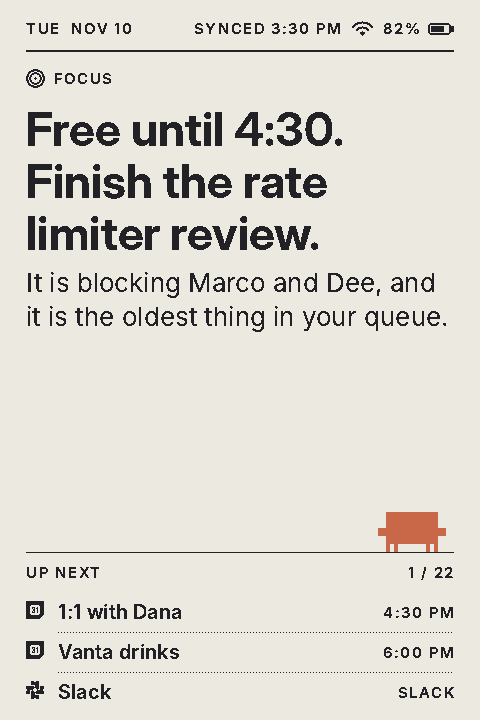
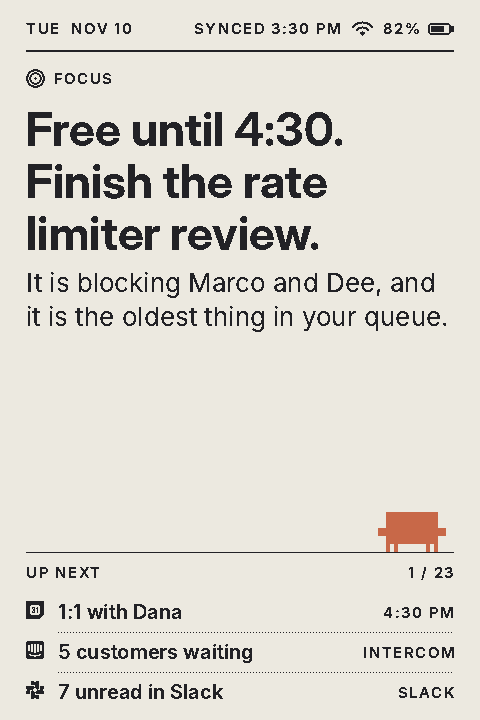
Commute shows the trip in big minutes with the mode beside it; Up next varies across screenshots

diff --git a/firmware/components/cink_core/src/ui.cpp b/firmware/components/cink_core/src/ui.cpp
@@ -153,10 +153,8 @@ void hero_countdown(Canvas& cv, const Card& c, const Status& st, Box b) {
   int64_t dt = c.at - st.now;
   int mins = (int)((dt + 59) / 60);
   char clock[16], ctx[40];
-  const bool commute = c.kind == Kind::Commute;
-  // A commute card's "at" is the leave-by time and its "end" the meeting start.
-  fmt_clock(commute && c.end ? c.end : c.at, clock, sizeof clock);
-  snprintf(ctx, sizeof ctx, commute ? "ARRIVE %s" : "AT %s", clock);
+  fmt_clock(c.at, clock, sizeof clock);
+  snprintf(ctx, sizeof ctx, "AT %s", clock);
   int y = b.y + 22;
   card_eyebrow(cv, c, st, b.x, y, b.w, ctx);
 
@@ -165,14 +163,14 @@ void hero_countdown(Canvas& cv, const Card& c, const Status& st, Box b) {
   int base = y + 140;
   int nw;
   if (mins <= 1) {
-    nw = cv.text(font_big, b.x - 2, base - 20, commute ? "Go" : "Now", num_ink);
+    nw = cv.text(font_big, b.x - 2, base - 20, "Now", num_ink);
   } else {
     char num[12];
     snprintf(num, sizeof num, "%d", mins);
     nw = cv.text(font_huge, b.x - 4, base, num, num_ink);
     const char* unit = mins == 1 ? "MINUTE" : "MINUTES";
     eyebrow(cv, b.x + nw + 14, base, unit, Ink::Black);
-    eyebrow(cv, b.x + nw + 14, base - 26, commute ? "LEAVE IN" : "STARTS IN", Ink::Black);
+    eyebrow(cv, b.x + nw + 14, base - 26, "STARTS IN", Ink::Black);
   }
   y = base + 22;
   cv.hline(b.x, y, b.w, Ink::Black, 2);
@@ -186,6 +184,84 @@ void hero_countdown(Canvas& cv, const Card& c, const Status& st, Box b) {
   }
   if (c.body[0] && y + 32 <= bottom) {
     y += 32;
+    cv.wrap(font_body, b.x, y, b.w, 29, (bottom - y) / 29 + 1, c.body, Ink::Black);
+  }
+  if (c.meta[0]) {
+    cv.dots(b.x, b.y + b.h - 30, b.w, 3, Ink::Black);
+    cv.text(font_small, b.x, b.y + b.h - 6, c.meta, Ink::Black, 0, b.w);
+  }
+}
+
+// How the owner is getting there, for the line beside the minutes the card's
+// (eyebrow capitals): the card's delta ("by car"), else guessed from the title's verb ("Drive to ...").
+void travel_mode(const Card& c, char* out, size_t n) {
+  if (c.delta[0]) {
+    snprintf(out, n, "%s", c.delta);
+  } else {
+    struct { const char* verb; const char* mode; } verbs[] = {
+      {"Drive", "by car"}, {"Walk", "on foot"}, {"Bike", "by bike"}, {"Ride", "by bike"},
+      {"Take", "by transit"}, {"Train", "by train"}, {"Bus", "by bus"}, {"Head", "door to door"},
+    };
+    snprintf(out, n, "door to door");
+    for (auto& v : verbs)
+      if (!strncmp(c.title, v.verb, strlen(v.verb))) { snprintf(out, n, "%s", v.mode); break; }
+  }
+}
+
+// Commute: the trip's length is the number ("25 MINUTES BY CAR"), the place
+// goes under it, and the eyebrow counts down to leaving.
+void hero_commute(Canvas& cv, const Card& c, const Status& st, Box b) {
+  int64_t dt = c.at ? c.at - st.now : 0;
+  int leave_in = (int)((dt + 59) / 60);
+  char leave[16], arrive[16], ctx[40];
+  fmt_clock(c.at, leave, sizeof leave);
+  fmt_clock(c.end, arrive, sizeof arrive);
+  if (!c.at) ctx[0] = 0;
+  else if (dt <= 60 && dt > -15 * 60) snprintf(ctx, sizeof ctx, "GO NOW");
+  else if (dt > 0 && leave_in <= 90) snprintf(ctx, sizeof ctx, "LEAVE IN %d MIN", leave_in);
+  else snprintf(ctx, sizeof ctx, "LEAVE BY %s", leave);
+  int y = b.y + 22;
+  card_eyebrow(cv, c, st, b.x, y, b.w, ctx);
+
+  // Trip length: the digits in "big", else arrival minus leave-by.
+  int trip = 0;
+  for (const char* p = c.big; *p; p++) {
+    if (*p >= '0' && *p <= '9') trip = trip * 10 + (*p - '0');
+    else if (trip) break;
+  }
+  if (!trip && c.at && c.end > c.at) trip = (int)((c.end - c.at + 59) / 60);
+  const bool soon = c.at && dt <= 5 * 60;
+  Ink num_ink = (c.urgent || soon) ? accent_ink(st) : Ink::Black;
+  int base = y + 140;
+  if (trip > 0 && trip < 1000) {
+    char num[8], mode[40];
+    snprintf(num, sizeof num, "%d", trip);
+    int nw = cv.text(font_huge, b.x - 4, base, num, num_ink);
+    travel_mode(c, mode, sizeof mode);
+    eyebrow(cv, b.x + nw + 14, base - 26, trip == 1 ? "MINUTE" : "MINUTES", Ink::Black);
+    eyebrow(cv, b.x + nw + 14, base, mode, Ink::Black, b.w - nw - 14);
+  } else {
+    base = y + 60;
+  }
+  y = base + 22;
+  cv.hline(b.x, y, b.w, Ink::Black, 2);
+  y += 42;
+  int used = cv.wrap(font_title_s, b.x, y, b.w, 42, 2, c.title, Ink::Black);
+  y += (used - 1) * 42;
+  int bottom = b.y + b.h - (c.meta[0] ? 44 : 4);
+  if (c.at && y + 36 <= bottom) {
+    char when[64];
+    if (c.end) snprintf(when, sizeof when, "Leave %s  \xC2\xB7  arrive %s", leave, arrive);
+    else snprintf(when, sizeof when, "Leave by %s", leave);
+    y += 36;
+    cv.text(font_body_b, b.x, y, when, soon ? accent_ink(st) : Ink::Black, 0, b.w);
+  }
+  if (c.subtitle[0] && y + 30 <= bottom) {
+    y += 30;
+    cv.text(font_body, b.x, y, c.subtitle, Ink::Black, 0, b.w);
+  }
+  if (c.body[0] && y + 36 <= bottom) {
+    y += 36;
     cv.wrap(font_body, b.x, y, b.w, 29, (bottom - y) / 29 + 1, c.body, Ink::Black);
   }
   if (c.meta[0]) {
@@ -341,7 +417,6 @@ void context_for(const Card& c, const Status& st, char* out, size_t n) {
 
 bool is_countdown(const Card& c, const Status& st) {
   int64_t dt = c.at ? c.at - st.now : -1;
-  if (c.kind == Kind::Commute) return c.at && dt > -10 * 60 && dt <= 99 * 60;  // "Go" once leave-by passes
   return c.at && dt > 0 && dt <= 99 * 60 && (c.kind == Kind::Event || c.kind == Kind::Quest);
 }
 
@@ -349,7 +424,8 @@ void hero(Canvas& cv, const Card& c, const Status& st, Box b) {
   if (c.urgent) cv.fill(0, b.y + 4, 8, 96, accent_ink(st));
   char ctx[48];
   context_for(c, st, ctx, sizeof ctx);
-  if (is_countdown(c, st)) hero_countdown(cv, c, st, b);
+  if (c.kind == Kind::Commute) hero_commute(cv, c, st, b);
+  else if (is_countdown(c, st)) hero_countdown(cv, c, st, b);
   else if (c.big[0]) hero_metric(cv, c, st, b, ctx);
   else if (c.nrows) {
     // Lists may run down beside Clawd's head: rows that low are narrowed instead.

diff --git a/desktop/bridge/src/prompt.rs b/desktop/bridge/src/prompt.rs
@@ -190,9 +190,9 @@ const GUIDE: &str = r#"How to build each screen:
 - brief: before 11 AM one morning brief card (start now, end 11 AM): the day in one line in title, body with the 2-3 things that matter. After 4 PM an evening wrap card (what got done, what tomorrow starts with).
 - doc: docs shared with the owner or with unresolved comments for them in the last 2 days, from every Google Drive account and SharePoint/OneDrive, plus the doc to read before the next meeting when there is one. src "gdrive" or "m365".
 - other: anything genuinely important that fits nowhere else.
-- traffic: one card from Vercel Web Analytics for the owner's main site: big = visitors today so far (e.g. "8,312"), delta against the same weekday's usual, spark = hourly visitors today, subtitle = top page and the biggest referrer. Only when it is unusual (well above or below normal) or the owner launched something; priority 20-45. C-Ink builds a separate Traffic card from Cloudflare itself (listed below when there is one); never make one for a Cloudflare site.
+- traffic: one card from Vercel Web Analytics for the owner's main site: big = visitors today so far (e.g. "8,312"), delta against the same weekday's usual, spark = hourly visitors today, subtitle = top page and the biggest referrer, short (e.g. "/blog/launch  ·  41% from Hacker News"). Only when it is unusual (well above or below normal) or the owner launched something; priority 20-45. C-Ink builds a separate Traffic card from Cloudflare itself (listed below when there is one); never make one for a Cloudflare site.
 - db: one card from Supabase advisors and logs: rows for security warnings (RLS off, exposed functions: tier 0, urgent if a table holding user data is public), performance warnings (tier 2), paused or unhealthy projects (tier 1). label = table or function, badge like "RLS" or "IDX". Nothing if clean.
-- commute: for each in-person meeting in the next 12 hours that has a physical location (an address or a named place in the location field or invite, not a video link or a room in the owner's own office), one card. Work out where the owner will be right before it: the location of their previous in-person meeting that day if there is one, otherwise their usual starting point given below. Skip it if both are the same building. Estimate door-to-door time for the owner's usual way of getting around from what you know about the two places and the time of day (rush hour, a bridge, parking), round up to 5 minutes and add the owner's buffer. "at" = leave-by time (meeting start minus that estimate), "start" = 45 minutes before leave-by, "end" = the meeting start. title = "<mode verb> to <place>", e.g. "Drive to Blue Bottle Hayes Valley" (max 40). subtitle like "About 25 min by car" (say "about": it is an estimate without live traffic). body = the meeting it is for and its start time, plus one practical note if there is a real one (parking, which entrance, the train line). meta = the destination's street address, shortened. Priority 45-70. Never route to or from anything covered by the privacy rule.
+- commute: for each in-person meeting in the next 12 hours that has a physical location (an address or a named place in the location field or invite, not a video link or a room in the owner's own office), one card. Work out where the owner will be right before it: the location of their previous in-person meeting that day if there is one, otherwise their usual starting point given below. Skip it if both are the same building. Estimate door-to-door time for the owner's usual way of getting around from what you know about the two places and the time of day (rush hour, a bridge, parking), round up to 5 minutes and add the owner's buffer. "at" = leave-by time (meeting start minus that estimate), "start" = 45 minutes before leave-by, "end" = the meeting start. title = "<mode verb> to <place>", e.g. "Drive to Blue Bottle Hayes Valley" (max 40). big = the door-to-door estimate in minutes, digits only (e.g. "25"); delta = how, "by car", "by transit", "on foot" or "by bike" (the badge shows "25 MINUTES BY CAR" and the leave and arrive times itself). subtitle = where the trip starts, e.g. "From the office" or "From Blue Bottle", plus the buffer if there is one. body = the meeting it is for and its start time, plus one practical note if there is a real one (parking, which entrance, the train line). meta = the destination's street address, shortened. Priority 45-70. Never route to or from anything covered by the privacy rule.
 - wins: Thursday afternoon onward, or any time the day is quiet, one card for the week so far: rows for merged PRs (count badge), Linear issues completed, deploys or releases that went live (ONCE, Vercel). Title with some warmth ("A good week so far"). Priority 25-40, higher on Friday afternoon. Never pad it: only real, completed work.
 - parcel: ONE card titled "Deliveries" for packages arriving today or tomorrow, or delayed. Use the Shop connector's orders and tracking when it is connected, and order and shipping emails in the mail connectors (Shop, Amazon, carriers). Rows: label = merchant (max 22), detail = item in a few words and status ("Arriving today by 8 PM", "Delayed, now Thursday"), badge "!" for a delay or a signature needed. Tiers: 0 = arriving today or needs action, 1 = tomorrow, 2 = in transit. sections ["TODAY", "TOMORROW", "ON THE WAY"]. src "shop" when any row came from Shop, else the mail connector the emails came from ("gmail" or "outlook"). Priority 25-45, higher on the day something arrives. Nothing if no package is moving.
 - Do not make weather, claude, cloud or news cards: C-Ink builds those itself.

diff --git a/tools/render_screens.py b/tools/render_screens.py
@@ -11,6 +11,7 @@ relevant one: the fixture is copied with that card raised to the top.
 import argparse
 import json
 import os
+import random
 import subprocess
 import sys
 import tempfile
@@ -38,10 +39,11 @@ SHOTS = [
     ("teams", "teams:triage", [], "Teams"),
     ("cloudflare", "cloud:alerts", [], "Cloudflare alerts"),
     ("database", "supabase:advisors", [], "Database health"),
-    ("commute", "commute:vanta-drinks", ["--now", str(NOW + 50 * 60)], "Commute"),
+    ("commute", "commute:vanta-drinks", ["--now", str(NOW + 151 * 60)], "Commute"),
     ("focus", "focus:pm", ["--now", str(NOW + 45 * 60)], "Focus window"),
     ("money", "stripe:today", [], "Revenue"),
-    ("traffic", "vercel:traffic", [], "Traffic"),
+    ("traffic", "vercel:traffic", [], "Traffic (Vercel)"),
+    ("traffic-cloudflare", "cf:traffic", [], "Traffic (Cloudflare)"),
     ("releases", "once:low-tide", [], "Releases on ONCE"),
     ("quest", "tavern:s14", [], "Game night on Tavern"),
     ("wins", "wins:week", [], "This week's wins"),
@@ -65,13 +67,15 @@ def render(name, raise_id, extra, tmp):
         if raise_id:
             # The meeting in 12 minutes would outrank anything, so leave it out.
             doc["cards"] = [c for c in doc["cards"] if c["id"] != "cal:design-review" or c["id"] == raise_id]
+            # A different, repeatable mix in Up next for every screenshot.
+            rng = random.Random(name)
             for c in doc["cards"]:
                 if c["id"] == raise_id:
                     c["p"] = 100
                     c.pop("st", None)
                     continue
                 # Calm the rest down so the raised card leads.
-                c["p"] = min(c.get("p", 50), 59)
+                c["p"] = rng.randint(15, 59)
                 c.pop("u", None)
                 for r in c.get("r", []):
                     r.pop("u", None)

diff --git a/sim/fixtures/make_fixtures.py b/sim/fixtures/make_fixtures.py
@@ -74,8 +74,12 @@ day = {
         {"id": "cal:standup", "k": "event", "p": 30, "at": at(1, 9, 30), "en": at(1, 9, 45), "t": "Standup",
          "s": "Daily  ·  Zoom"},
         {"id": "vercel:traffic", "k": "traffic", "p": 34, "t": "Launch post is pulling people in", "sh": "Traffic up",
-         "big": "8,312", "dl": "+64% vs a usual Tuesday", "s": "Top page: /blog/c-ink  ·  41% from Hacker News",
+         "big": "8,312", "dl": "+64% vs a usual Tuesday", "s": "/blog/c-ink  ·  41% from Hacker News",
          "sp": [5, 6, 6, 8, 9, 12, 18, 30, 44, 52, 57, 61, 66, 70, 74, 79, 83, 86]},
+        {"id": "cf:traffic", "k": "traffic", "p": 30, "src": "cloudflare", "t": "lowtide.fm is busier than usual",
+         "sh": "Traffic up 48%", "big": "3,904", "dl": "+48% vs last Tuesday",
+         "s": "/low-tide  ·  most from Reddit",
+         "sp": [2, 1, 1, 0, 0, 1, 4, 9, 16, 22, 31, 38, 47, 55, 63, 100]},
         {"id": "supabase:advisors", "k": "db", "p": 52, "t": "Supabase: 2 tables open to the public",
          "sh": "2 tables exposed",
          "r": [
@@ -89,7 +93,7 @@ day = {
          "m": "Zuni Café  ·  1658 Market St"},
         {"id": "commute:vanta-drinks", "k": "commute", "p": 55, "at": at(0, 17, 30), "st": at(0, 16, 45),
          "en": at(0, 18, 0), "t": "Drive to Zuni Café", "sh": "Leave 5:30 for Zuni",
-         "s": "About 25 min by car from the office",
+         "big": "25", "dl": "by car", "s": "From the office, with 5 minutes to spare",
          "b": "For drinks with the Vanta team at 6:00 PM. Street parking on Market is tight after 5; the Rose St garage is a block away.",
          "m": "1658 Market St, San Francisco"},
         {"id": "wins:week", "k": "wins", "p": 26, "t": "A good week so far", "sh": "Week: 14 wins",

diff --git a/desktop/bridge/src/cloudflare.rs b/desktop/bridge/src/cloudflare.rs
@@ -186,7 +186,7 @@ pub fn traffic_card(t: &Traffic, now: DateTime<Local>) -> Option<Value> {
     };
     let mut sub = vec![];
     if !t.top_path.is_empty() {
-        sub.push(format!("Top page: {}", t.top_path));
+        sub.push(t.top_path.clone());
     }
     if !t.top_referrer.is_empty() {
         sub.push(format!("most from {}", pretty_referrer(&t.top_referrer)));
@@ -374,7 +374,7 @@ mod tests {
         assert_eq!(c["big"], "5,300");
         assert_eq!(c["short"], "Traffic up 66%");
         assert!(c["delta"].as_str().unwrap().starts_with("+66% vs last "));
-        assert_eq!(c["subtitle"], "Top page: /blog/launch  ·  most from Hacker News");
+        assert_eq!(c["subtitle"], "/blog/launch  ·  most from Hacker News");
         assert_eq!(c["priority"], 42);
         let quiet = Traffic { today: 0, ..t };
         assert!(traffic_card(&quiet, now).is_none());
